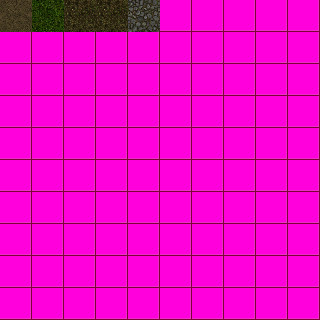
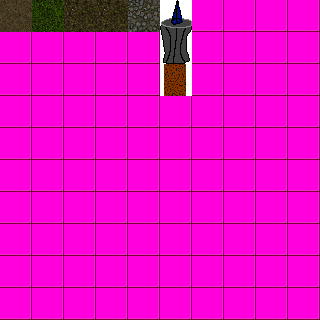
Converted to Isometric, Set up Basic Collisions.

Changed region(s): [[0.5, 0.0, 0.625, 0.3125]]

diff --git a/winter/clientgl/Layer.cs b/winter/clientgl/Layer.cs
@@ -17,14 +17,22 @@ namespace client
         {
             [XmlElement("Row")]
             public List<String> Row;
+
             public TileMap()
             {
                 Row = new List<String>();
             }
         }
         private Image Image = new Image();
+
         [XmlElement("TileMap")]
         public TileMap Tile;
+
+        [XmlElement("SolidTiles")]
+        public string SolidTiles;
+
+        CollisionState state;
+
         public string Sheet
         {
             get
@@ -42,30 +50,46 @@ namespace client
         public Layer()
         {
             tiles = new List<Tile>();
+            SolidTiles = String.Empty;
         }
         public void LoadContent(Vector2 tileDimensions)
         {
             Image.LoadContent();
             Vector2 position = -tileDimensions;
+            position.X = -tileDimensions.X / 2;
+            position.Y += tileDimensions.Y / 2;
+            Vector2 startingRowPosition = position;
             foreach(string row in Tile.Row)
             {
                 string[] split = row.Split(']');
-                position.X = -tileDimensions.X;
-                position.Y += tileDimensions.Y;
+                position.X = startingRowPosition.X;
+                position.Y = startingRowPosition.Y;
                 foreach(string s in split)
                 {
                     if(s != String.Empty)
                     {
-                        position.X += tileDimensions.X;
-                        tiles.Add(new Tile());
+                        position.X += tileDimensions.X / 2;
+                        position.Y += tileDimensions.Y / 4;
+                        if (!s.Contains("x"))
+                        {
+                            state = CollisionState.PASSIVE;
+                            tiles.Add(new Tile());
 
-                        string str = s.Replace("[", String.Empty);
-                        int value1 = int.Parse(str.Substring(0, str.IndexOf(':')));
-                        int value2 = int.Parse(str.Substring(str.IndexOf(':') + 1));
-                        tiles[tiles.Count - 1].LoadContent(position, new Rectangle(value1 * (int)tileDimensions.X, value2 * (int)tileDimensions.Y, (int)tileDimensions.X, (int)tileDimensions.Y));
+                            string str = s.Replace("[", String.Empty);
+                            int value1 = int.Parse(str.Substring(0, str.IndexOf(':')));
+                            int value2 = int.Parse(str.Substring(str.IndexOf(':') + 1));
 
+                            if(SolidTiles.Contains("[" + value1.ToString() + ":" + value2.ToString() + "]"))
+                            {
+                                state = CollisionState.SOLID;
+                            }
+
+                            tiles[tiles.Count - 1].LoadContent(position, new Rectangle(value1 * (int)tileDimensions.X, value2 * (int)tileDimensions.Y, (int)tileDimensions.X, (int)tileDimensions.Y), state);
+                        }
                     }
                 }
+                startingRowPosition.X = startingRowPosition.X - (tileDimensions.X / 2);
+                startingRowPosition.Y = startingRowPosition.Y + (tileDimensions.Y / 4);
             }
 
         }
@@ -73,9 +97,10 @@ namespace client
         {
             Image.UnloadContent();
         }
-        public void Update(GameTime gameTime)
+        public void Update(GameTime gameTime, ref Player player)
         {
-
+            foreach (Tile tile in tiles)
+                tile.Update(gameTime, ref player);
         }
         public void Draw(SpriteBatch spriteBatch)
         {

diff --git a/winter/clientgl/Tile.cs b/winter/clientgl/Tile.cs
@@ -5,12 +5,14 @@ using System.Text;
 using System.Threading.Tasks;
 using Microsoft.Xna.Framework;
 using Microsoft.Xna.Framework.Graphics;
+public enum CollisionState { SOLID, PASSIVE}
 namespace client
 {
     public class Tile
     {
         Vector2 position;
         Rectangle sourceRect;
+        CollisionState state;
 
         public Rectangle SourceRect
         {
@@ -21,18 +23,42 @@ namespace client
         {
             get { return position; }
         }
-        public void LoadContent(Vector2 position, Rectangle sourceRect)
+        public void LoadContent(Vector2 position, Rectangle sourceRect, CollisionState state)
         {
             this.position = position;
             this.sourceRect = sourceRect;
+            this.state = state;
         }
         public void UnloadContent()
         {
 
         }
-        public void Update(GameTime gameTime)
+        public void Update(GameTime gameTime, ref Player player)
         {
-
+            if(state == CollisionState.SOLID)
+            {
+                Rectangle tileRect = new Rectangle((int)Position.X, (int)Position.Y, sourceRect.Width, sourceRect.Height);
+                Rectangle playerRect = new Rectangle((int)player.Image.Position.X, (int)player.Image.Position.Y, player.Image.SourceRect.Width, player.Image.SourceRect.Height);
+                if (playerRect.Intersects(tileRect))
+                {
+                    ///ORIGINAL
+                    /*
+                    if (player.Velocity.X < 0)
+                        player.Image.Position.X = tileRect.Right;
+                    else if (player.Velocity.X > 0)
+                        player.Image.Position.X = tileRect.Left - player.Image.SourceRect.Width;
+                    else if (player.Velocity.Y < 0)
+                        player.Image.Position.Y = tileRect.Bottom;
+                    else
+                        player.Image.Position.Y = tileRect.Top - player.Image.SourceRect.Height;
+                    */
+                    ///ALTERNATIVE
+                    if (player.Velocity.X != 0)
+                        player.Image.Position.X = player.prevPosition.X - (player.Image.Position.X- player.prevPosition.X);
+                    if (player.Velocity.Y != 0)
+                        player.Image.Position.Y = player.prevPosition.Y +  (player.prevPosition.Y - player.Image.Position.Y);
+                }
+            }
         }
         public void Draw(SpriteBatch spriteBatch)
         {

diff --git a/winter/clientgl/Camera.cs b/winter/clientgl/Camera.cs
@@ -1,0 +1,53 @@
+using System;
+using System.Collections.Generic;
+using System.Linq;
+using System.Text;
+using System.Threading.Tasks;
+using Microsoft.Xna.Framework;
+using Microsoft.Xna.Framework.Graphics;
+using Microsoft.Xna.Framework.Input;
+using Microsoft.Xna.Framework.Audio;
+namespace client
+{
+    class Camera
+    {
+        private static Camera instance;
+        public Matrix Transform;
+        public Vector2 Position;
+        public float Rotation;
+        private float zoom;
+        public float Zoom
+        {
+            get { return zoom; }
+            set { zoom = value; if (zoom <= 0.0f) zoom = 0.1f; }
+        }
+        public Camera()
+        {
+            zoom = 1.0f;
+            Rotation = 0.0f;
+            Position = Vector2.Zero;
+        }
+        public void Move(Vector2 amount)
+        {
+            Position += amount;
+        }
+        public Matrix GetTransformation()
+        {
+            Transform = Matrix.CreateTranslation(new Vector3(-Position.X, -Position.Y, 0)) 
+                * Matrix.CreateRotationZ(Rotation) * Matrix.CreateScale(new Vector3(Zoom, Zoom, 1)) 
+                * Matrix.CreateTranslation(new Vector3(ScreenManager.Instance.Dimensions.X * 0.5f, ScreenManager.Instance.Dimensions.Y * 0.5f, 0));
+            return Transform;
+        }
+        public static Camera Instance
+        {
+            get
+            {
+                if (instance == null)
+                {
+                    instance = new Camera();
+                }
+                return instance;
+            }
+        }
+    }
+}

diff --git a/winter/clientgl/Player.cs b/winter/clientgl/Player.cs
@@ -12,11 +12,12 @@ using System.Diagnostics;
 
 namespace client
 {
-    class Player
+    public class Player
     {
         public Image Image = new Image();
         public Vector2 Velocity = new Vector2(0,0);
-        public float MoveSpeed = 100.0f;
+        public float MoveSpeed = 1000.0f;
+        public Vector2 prevPosition;
 
         public Player()
         {
@@ -42,12 +43,12 @@ namespace client
                     Velocity.Y = 0;
                 else if (InputManager.Instance.KeyDown(Keys.S))
                 {
-                    Velocity.Y = MoveSpeed * (float)gameTime.ElapsedGameTime.TotalSeconds;
+                    Velocity.Y = (MoveSpeed / 2) * (float)gameTime.ElapsedGameTime.TotalSeconds;
                     Image.SpriteSheetEffect.CurrentFrame.Y = 0;
                 }
                 else if (InputManager.Instance.KeyDown(Keys.W))
                 {
-                    Velocity.Y = -MoveSpeed * (float)gameTime.ElapsedGameTime.TotalSeconds;
+                    Velocity.Y = -(MoveSpeed / 2) * (float)gameTime.ElapsedGameTime.TotalSeconds;
                     Image.SpriteSheetEffect.CurrentFrame.Y = 3;
                 }
                 else
@@ -75,6 +76,7 @@ namespace client
             if (Velocity.X == 0 && Velocity.Y == 0)
                 Image.IsActive = false;
             Image.Update(gameTime);
+            prevPosition = Image.Position;
             Image.Position += Velocity;
         }
         public void Draw(SpriteBatch spriteBatch)

diff --git a/winter/clientgl/GameplayScreen.cs b/winter/clientgl/GameplayScreen.cs
@@ -20,6 +20,8 @@ namespace client
             Player.LoadContent();
             XmlManager<Map> mapLoader = new XmlManager<Map>();
             map = mapLoader.Load("Content/TestMap.xml");
+            Camera.Instance.Zoom = 0.2f;
+            Camera.Instance.Position = Player.Image.Position;
             map.LoadContent();
         }
         public override void UnloadContent()
@@ -32,7 +34,8 @@ namespace client
         {
             base.Update(gameTime);
             Player.Update(gameTime);
-            map.Update(gameTime);
+            map.Update(gameTime, ref Player);
+            Camera.Instance.Position = Player.Image.Position;
         }
         public override void Draw(SpriteBatch spriteBatch)
         {

diff --git a/winter/clientgl/Game.cs b/winter/clientgl/Game.cs
@@ -52,7 +52,7 @@ namespace client
         {
             this.GraphicsDevice.Clear(Color.Black);
             this.Window.Title = "winter - " + 1 / gameTime.ElapsedGameTime.TotalSeconds;
-            spriteBatch.Begin();
+            spriteBatch.Begin(SpriteSortMode.Deferred, null, null, null, null, null, Camera.Instance.GetTransformation());
             ScreenManager.Instance.Draw(spriteBatch);
             spriteBatch.End();
             base.Draw(gameTime);

diff --git a/winter/clientgl/Map.cs b/winter/clientgl/Map.cs
@@ -29,10 +29,10 @@ namespace client
             foreach (Layer l in Layer)
                 l.UnloadContent();
         }
-        public void Update(GameTime gameTime)
+        public void Update(GameTime gameTime, ref Player player)
         {
             foreach (Layer l in Layer)
-                l.Update(gameTime);
+                l.Update(gameTime, ref player);
         }
         public void Draw(SpriteBatch spriteBatch)
         {
